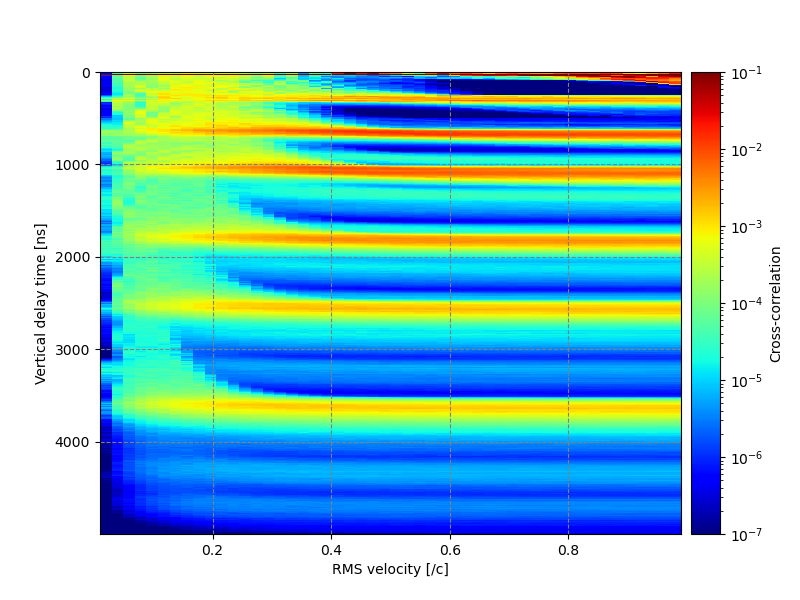
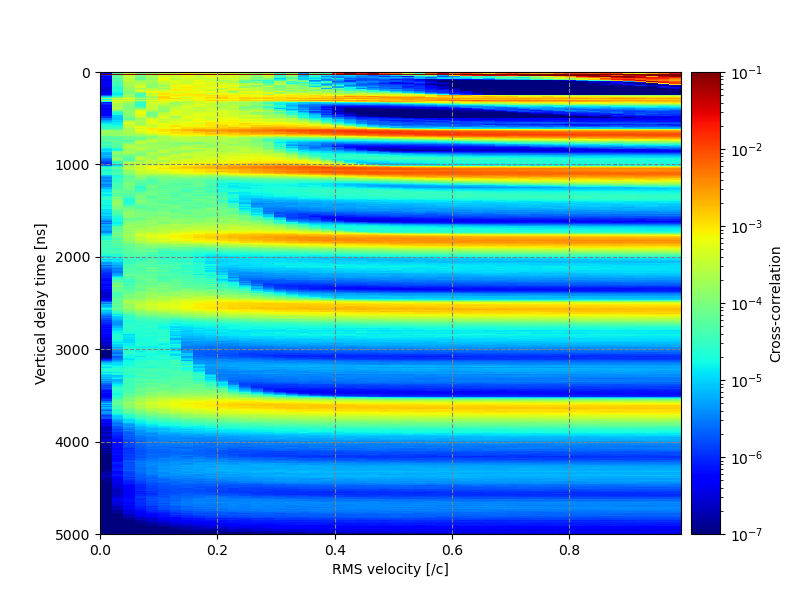
selectの作成，closeupの修正

diff --git a/tools/estimate_Vrms.py b/tools/estimate_Vrms.py
@@ -17,7 +17,7 @@ import itertools
 parser = argparse.ArgumentParser(description='Processing Su method',
                                  usage='cd gprMax; python -m tools.Su_method jsonfile plot_type -closeup')
 parser.add_argument('jsonfile', help='json file path')
-parser.add_argument('plot_type', choices=['plot', 'mask', 'calc'])
+parser.add_argument('plot_type', choices=['plot', 'mask', 'select', 'calc'])
 parser.add_argument('-closeup', action='store_true', help='closeup of the plot', default=False)
 args = parser.parse_args()
 
@@ -111,6 +111,13 @@ if not os.path.exists(output_dir_path):
 
 
 #* load only or calculate and save
+
+"""
+select area [ns]
+"""
+select_start = 3000
+select_end = 4000
+
 if args.plot_type == 'plot':
     Vt_map = np.loadtxt(params['corr_map_txt'], delimiter=',')
 
@@ -141,6 +148,19 @@ elif args.plot_type == 'mask':
     #! トップ5のみ残す
 
 
+elif args.plot_type == 'select':
+
+    # select Vt_map area
+    Vt_map = np.loadtxt(params['corr_map_txt'], delimiter=',')
+    Vt_map = Vt_map[int(select_start/params['time_step']): int(select_end/params['time_step']), :]
+    Vt_map = Vt_map / np.amax(Vt_map)
+
+    # Vt_mapの最大値の50%以下の値を0に置き換える
+    max_val = np.amax(Vt_map)  # 各行の最大値を取得
+    for row in range(Vt_map.shape[0]):
+        Vt_map[row][Vt_map[row] < 0.5*max_val] = 0
+
+
 elif args.plot_type == 'calc':
     Vt_map = corr_roop()
     Vt_map = Vt_map / np.amax(Vt_map) # normalize
@@ -153,23 +173,27 @@ else:
 
 fig = plt.figure(figsize=(8, 6))
 ax = fig.add_subplot(111)
-
-plt.imshow(Vt_map, cmap='jet', aspect='auto', interpolation='nearest',
-        extent=[RMS_velocity[0], RMS_velocity[-1], vertical_delay_time[-1], vertical_delay_time[0]],
-        norm=colors.LogNorm(vmin=1e-7, vmax=0.1))
+if args.plot_type == 'select':
+    plt.imshow(Vt_map, cmap='inferno', aspect='auto', interpolation='nearest',
+        extent=[0, RMS_velocity[-1], select_end, select_start]
+)
+else:
+    plt.imshow(Vt_map, cmap='jet', aspect='auto', interpolation='nearest',
+            extent=[0, RMS_velocity[-1], Vt_map.shape[0]*params['time_step'], 0],
+            norm=colors.LogNorm(vmin=1e-7, vmax=0.1) #! default: vmin=1e-7, vmax=0.1
+            #norm=colors.LogNorm(vmin=1e-7, vmax=0.5)
+    )
 
 ax.set_xlabel('RMS velocity [/c]')
 ax.set_ylabel('Vertical delay time [ns]')
 ax.grid(color='gray', linestyle='--')
 
-"""
-===== for closeup option =====
-"""
+#* for closeup option
 if args.closeup == True:
-    x_start = 0.35
-    x_end = 0.65
-    y_start = 700
-    y_end = 900
+    x_start = 0
+    x_end = 1
+    y_start = 200
+    y_end = 400
     plt.xlim(x_start, x_end)
     plt.ylim(y_end, y_start)
 
@@ -177,9 +201,18 @@ delvider = axgrid1.make_axes_locatable(ax)
 cax = delvider.append_axes('right', size='5%', pad=0.1)
 plt.colorbar(cax=cax, label='Cross-correlation')
 
+#* save plot
 if args.plot_type == 'mask' and args.closeup == False:
     plt.savefig(output_dir_path + '/corr_map_mask.png')
+elif args.plot_type == 'select' and args.closeup == False:
+    output_dir_path = output_dir_path + '/select'
+    if not os.path.exists(output_dir_path):
+        os.makedirs(output_dir_path)
+    plt.savefig(output_dir_path + '/corr_map_select' + str(select_start) + '-' + str(select_end) + '.png')
 elif args.closeup == True:
+    output_dir_path = output_dir_path + '/closeup'
+    if not os.path.exists(output_dir_path):
+        os.makedirs(output_dir_path)
     plt.savefig(output_dir_path + '/corr_map_closeup' + str(y_start) + '-' + str(y_end) + '.png')
 else:
     plt.savefig(output_dir_path + '/corr_map.png')
